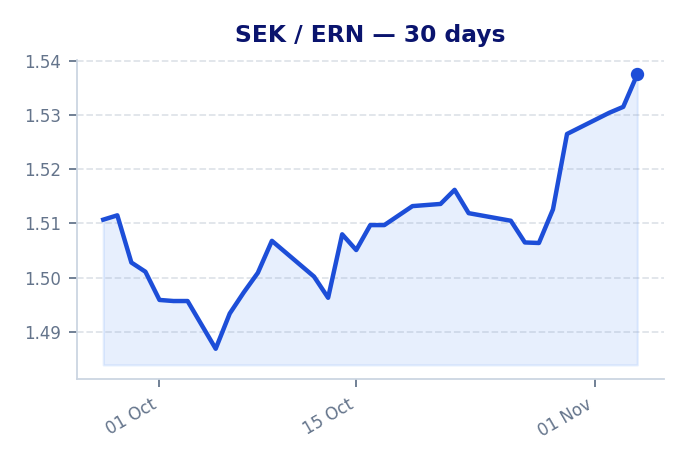
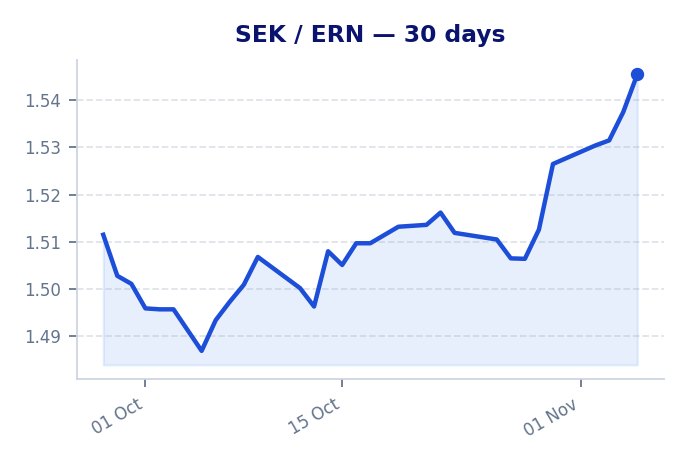
Add files via upload

diff --git a/index.html b/index.html
@@ -912,22 +912,22 @@ tr:hover {
 
             <div class="summary-item">
                 <div class="summary-label">SEK</div>
-                <div class="summary-value">1.5375</div>
+                <div class="summary-value">1.5455</div>
             </div>
 
             <div class="summary-item">
                 <div class="summary-label">NOK</div>
-                <div class="summary-value">1.6189</div>
+                <div class="summary-value">1.613</div>
             </div>
 
             <div class="summary-item">
                 <div class="summary-label">DKK</div>
-                <div class="summary-value">2.2545</div>
+                <div class="summary-value">2.2598</div>
             </div>
 
             </div>
             <div class="mid-market-meta">
-                <div><span style="font-weight:600" data-i18n="last-updated">Last Updated:</span> 2026-11-04 07:04</div>
+                <div><span style="font-weight:600" data-i18n="last-updated">Last Updated:</span> 2026-11-05 07:06</div>
                 <div style="font-size:0.8rem" data-i18n="mid-market-note">Official mid-market rates collected daily. Actual transfer payout rates shown below.</div>
             </div>
         </div>
@@ -947,11 +947,11 @@ tr:hover {
             <div class="insight-boxes">
                 <div class="bestbox">
                     <span class="icon">🏆</span> 
-                    <span data-i18n="top-pick">Top Pick: <b>Remitly</b> delivers <b>15 129 ERN</b></span>
+                    <span data-i18n="top-pick">Top Pick: <b>Ria</b> delivers <b>15 100 ERN</b></span>
                 </div>
                 <div class="gainbox">
                     <span class="icon">💡</span> 
-                    <span data-i18n="smart-move">Smart Move: You get <b>+421 ERN</b> more with <b>Remitly</b> vs <b>Juba Express</b></span>
+                    <span data-i18n="smart-move">Smart Move: You get <b>+319 ERN</b> more with <b>Ria</b> vs <b>Juba Express</b></span>
                 </div>
             </div>
             
@@ -972,25 +972,25 @@ tr:hover {
                         
 <tr class="best-row">
 <td class="left">
-    <div class="company-name">Remitly</div>
+    <div class="company-name">Ria</div>
 </td>
-<td class="right font-numeric">1.5130</td>
+<td class="right font-numeric">1.5100</td>
 <td class="right font-numeric">0,00</td>
-<td class="right nowrap font-numeric highlight-ern">15 129</td>
+<td class="right nowrap font-numeric highlight-ern">15 100</td>
 <td class="right nowrap font-numeric">-</td>
-<td class="right font-numeric markup-good">1.59%</td>
+<td class="right font-numeric markup-cell">2.30%</td>
 <td class="right font-numeric hide-mobile"><span class="badge best-badge">Best</span></td>
 </tr>
 
 <tr class="">
 <td class="left">
-    <div class="company-name">Ria</div>
+    <div class="company-name">Remitly</div>
 </td>
-<td class="right font-numeric">1.5000</td>
+<td class="right font-numeric">1.5039</td>
 <td class="right font-numeric">0,00</td>
-<td class="right nowrap font-numeric highlight-ern">15 000</td>
-<td class="right nowrap font-numeric"><span class="loss-text">-129 ERN</span></td>
-<td class="right font-numeric markup-cell">2.44%</td>
+<td class="right nowrap font-numeric highlight-ern">15 039</td>
+<td class="right nowrap font-numeric"><span class="loss-text">-61 ERN</span></td>
+<td class="right font-numeric markup-cell">2.69%</td>
 <td class="right font-numeric hide-mobile"><span class="badge rank-badge">#2</span></td>
 </tr>
 
@@ -998,11 +998,11 @@ tr:hover {
 <td class="left">
     <div class="company-name">Transfer Galaxy</div>
 </td>
-<td class="right font-numeric">1.4897</td>
+<td class="right font-numeric">1.5016</td>
 <td class="right font-numeric">0,00</td>
-<td class="right nowrap font-numeric highlight-ern">14 897</td>
-<td class="right nowrap font-numeric"><span class="loss-text">-232 ERN</span></td>
-<td class="right font-numeric markup-cell">3.11%</td>
+<td class="right nowrap font-numeric highlight-ern">15 016</td>
+<td class="right nowrap font-numeric"><span class="loss-text">-84 ERN</span></td>
+<td class="right font-numeric markup-cell">2.84%</td>
 <td class="right font-numeric hide-mobile"><span class="badge rank-badge">#3</span></td>
 </tr>
 
@@ -1010,11 +1010,11 @@ tr:hover {
 <td class="left">
     <div class="company-name">Western Union</div>
 </td>
-<td class="right font-numeric">1.4890</td>
+<td class="right font-numeric">1.4991</td>
 <td class="right font-numeric">0,00</td>
-<td class="right nowrap font-numeric highlight-ern">14 890</td>
-<td class="right nowrap font-numeric"><span class="loss-text">-239 ERN</span></td>
-<td class="right font-numeric markup-cell">3.15%</td>
+<td class="right nowrap font-numeric highlight-ern">14 991</td>
+<td class="right nowrap font-numeric"><span class="loss-text">-108 ERN</span></td>
+<td class="right font-numeric markup-cell">3.00%</td>
 <td class="right font-numeric hide-mobile"><span class="badge rank-badge">#4</span></td>
 </tr>
 
@@ -1022,11 +1022,11 @@ tr:hover {
 <td class="left">
     <div class="company-name">Dahabshiil</div>
 </td>
-<td class="right font-numeric">1.4815</td>
+<td class="right font-numeric">1.4887</td>
 <td class="right font-numeric">0,00</td>
-<td class="right nowrap font-numeric highlight-ern">14 815</td>
-<td class="right nowrap font-numeric"><span class="loss-text">-314 ERN</span></td>
-<td class="right font-numeric markup-cell">3.64%</td>
+<td class="right nowrap font-numeric highlight-ern">14 887</td>
+<td class="right nowrap font-numeric"><span class="loss-text">-213 ERN</span></td>
+<td class="right font-numeric markup-cell">3.68%</td>
 <td class="right font-numeric hide-mobile"><span class="badge rank-badge">#5</span></td>
 </tr>
 
@@ -1034,11 +1034,11 @@ tr:hover {
 <td class="left">
     <div class="company-name">Juba Express</div>
 </td>
-<td class="right font-numeric">1.4708</td>
+<td class="right font-numeric">1.4781</td>
 <td class="right font-numeric">0,00</td>
-<td class="right nowrap font-numeric highlight-ern">14 708</td>
-<td class="right nowrap font-numeric"><span class="loss-text">-421 ERN</span></td>
-<td class="right font-numeric markup-cell">4.34%</td>
+<td class="right nowrap font-numeric highlight-ern">14 781</td>
+<td class="right nowrap font-numeric"><span class="loss-text">-319 ERN</span></td>
+<td class="right font-numeric markup-cell">4.36%</td>
 <td class="right font-numeric hide-mobile"><span class="badge rank-badge">#6</span></td>
 </tr>
 
@@ -1060,11 +1060,11 @@ tr:hover {
             <div class="insight-boxes">
                 <div class="bestbox">
                     <span class="icon">🏆</span> 
-                    <span data-i18n="top-pick">Top Pick: <b>Transfer Galaxy</b> delivers <b>15 704 ERN</b></span>
+                    <span data-i18n="top-pick">Top Pick: <b>Ria Money Transfer</b> delivers <b>15 870 ERN</b></span>
                 </div>
                 <div class="gainbox">
                     <span class="icon">💡</span> 
-                    <span data-i18n="smart-move">Smart Move: You get <b>+862 ERN</b> more with <b>Transfer Galaxy</b> vs <b>Hidmona Money Transfer</b></span>
+                    <span data-i18n="smart-move">Smart Move: You get <b>+1 028 ERN</b> more with <b>Ria Money Transfer</b> vs <b>Hidmona Money Transfer</b></span>
                 </div>
             </div>
             
@@ -1085,25 +1085,25 @@ tr:hover {
                         
 <tr class="best-row">
 <td class="left">
-    <div class="company-name">Transfer Galaxy</div>
+    <div class="company-name">Ria Money Transfer</div>
 </td>
-<td class="right font-numeric">1.5704</td>
+<td class="right font-numeric">1.5870</td>
 <td class="right font-numeric">0,00</td>
-<td class="right nowrap font-numeric highlight-ern">15 704</td>
+<td class="right nowrap font-numeric highlight-ern">15 870</td>
 <td class="right nowrap font-numeric">-</td>
-<td class="right font-numeric markup-cell">3.00%</td>
+<td class="right font-numeric markup-good">1.61%</td>
 <td class="right font-numeric hide-mobile"><span class="badge best-badge">Best</span></td>
 </tr>
 
 <tr class="">
 <td class="left">
-    <div class="company-name">Ria Money Transfer</div>
+    <div class="company-name">Transfer Galaxy</div>
 </td>
-<td class="right font-numeric">1.5700</td>
+<td class="right font-numeric">1.5720</td>
 <td class="right font-numeric">0,00</td>
-<td class="right nowrap font-numeric highlight-ern">15 700</td>
-<td class="right nowrap font-numeric"><span class="loss-text">-4 ERN</span></td>
-<td class="right font-numeric markup-cell">3.02%</td>
+<td class="right nowrap font-numeric highlight-ern">15 720</td>
+<td class="right nowrap font-numeric"><span class="loss-text">-150 ERN</span></td>
+<td class="right font-numeric markup-cell">2.54%</td>
 <td class="right font-numeric hide-mobile"><span class="badge rank-badge">#2</span></td>
 </tr>
 
@@ -1111,11 +1111,11 @@ tr:hover {
 <td class="left">
     <div class="company-name">Remitly</div>
 </td>
-<td class="right font-numeric">1.5697</td>
+<td class="right font-numeric">1.5645</td>
 <td class="right font-numeric">0,00</td>
-<td class="right nowrap font-numeric highlight-ern">15 697</td>
-<td class="right nowrap font-numeric"><span class="loss-text">-6 ERN</span></td>
-<td class="right font-numeric markup-cell">3.04%</td>
+<td class="right nowrap font-numeric highlight-ern">15 645</td>
+<td class="right nowrap font-numeric"><span class="loss-text">-225 ERN</span></td>
+<td class="right font-numeric markup-cell">3.01%</td>
 <td class="right font-numeric hide-mobile"><span class="badge rank-badge">#3</span></td>
 </tr>
 
@@ -1123,11 +1123,11 @@ tr:hover {
 <td class="left">
     <div class="company-name">Juba Express</div>
 </td>
-<td class="right font-numeric">1.5485</td>
+<td class="right font-numeric">1.5425</td>
 <td class="right font-numeric">0,00</td>
-<td class="right nowrap font-numeric highlight-ern">15 485</td>
-<td class="right nowrap font-numeric"><span class="loss-text">-219 ERN</span></td>
-<td class="right font-numeric markup-cell">4.35%</td>
+<td class="right nowrap font-numeric highlight-ern">15 425</td>
+<td class="right nowrap font-numeric"><span class="loss-text">-445 ERN</span></td>
+<td class="right font-numeric markup-cell">4.37%</td>
 <td class="right font-numeric hide-mobile"><span class="badge rank-badge">#4</span></td>
 </tr>
 
@@ -1135,11 +1135,11 @@ tr:hover {
 <td class="left">
     <div class="company-name">Dahabshiil</div>
 </td>
-<td class="right font-numeric">1.5112</td>
+<td class="right font-numeric">1.5045</td>
 <td class="right font-numeric">0,00</td>
-<td class="right nowrap font-numeric highlight-ern">15 112</td>
-<td class="right nowrap font-numeric"><span class="loss-text">-591 ERN</span></td>
-<td class="right font-numeric markup-cell">6.65%</td>
+<td class="right nowrap font-numeric highlight-ern">15 045</td>
+<td class="right nowrap font-numeric"><span class="loss-text">-825 ERN</span></td>
+<td class="right font-numeric markup-cell">6.73%</td>
 <td class="right font-numeric hide-mobile"><span class="badge rank-badge">#5</span></td>
 </tr>
 
@@ -1150,8 +1150,8 @@ tr:hover {
 <td class="right font-numeric">1.4842</td>
 <td class="right font-numeric">0,00</td>
 <td class="right nowrap font-numeric highlight-ern">14 842</td>
-<td class="right nowrap font-numeric"><span class="loss-text">-862 ERN</span></td>
-<td class="right font-numeric markup-cell">8.32%</td>
+<td class="right nowrap font-numeric"><span class="loss-text">-1 028 ERN</span></td>
+<td class="right font-numeric markup-cell">7.99%</td>
 <td class="right font-numeric hide-mobile"><span class="badge rank-badge">#6</span></td>
 </tr>
 
@@ -1173,11 +1173,11 @@ tr:hover {
             <div class="insight-boxes">
                 <div class="bestbox">
                     <span class="icon">🏆</span> 
-                    <span data-i18n="top-pick">Top Pick: <b>Western Union</b> delivers <b>22 453 ERN</b></span>
+                    <span data-i18n="top-pick">Top Pick: <b>Western Union</b> delivers <b>22 533 ERN</b></span>
                 </div>
                 <div class="gainbox">
                     <span class="icon">💡</span> 
-                    <span data-i18n="smart-move">Smart Move: You get <b>+886 ERN</b> more with <b>Western Union</b> vs <b>Juba Express</b></span>
+                    <span data-i18n="smart-move">Smart Move: You get <b>+914 ERN</b> more with <b>Western Union</b> vs <b>Juba Express</b></span>
                 </div>
             </div>
             
@@ -1200,11 +1200,11 @@ tr:hover {
 <td class="left">
     <div class="company-name">Western Union</div>
 </td>
-<td class="right font-numeric">2.2453</td>
+<td class="right font-numeric">2.2533</td>
 <td class="right font-numeric">0,00</td>
-<td class="right nowrap font-numeric highlight-ern">22 453</td>
+<td class="right nowrap font-numeric highlight-ern">22 533</td>
 <td class="right nowrap font-numeric">-</td>
-<td class="right font-numeric markup-good">0.41%</td>
+<td class="right font-numeric markup-good">0.29%</td>
 <td class="right font-numeric hide-mobile"><span class="badge best-badge">Best</span></td>
 </tr>
 
@@ -1212,11 +1212,11 @@ tr:hover {
 <td class="left">
     <div class="company-name">Ria Money Transfer</div>
 </td>
-<td class="right font-numeric">2.2100</td>
+<td class="right font-numeric">2.2200</td>
 <td class="right font-numeric">0,00</td>
-<td class="right nowrap font-numeric highlight-ern">22 100</td>
-<td class="right nowrap font-numeric"><span class="loss-text">-353 ERN</span></td>
-<td class="right font-numeric markup-good">1.97%</td>
+<td class="right nowrap font-numeric highlight-ern">22 200</td>
+<td class="right nowrap font-numeric"><span class="loss-text">-332 ERN</span></td>
+<td class="right font-numeric markup-good">1.76%</td>
 <td class="right font-numeric hide-mobile"><span class="badge rank-badge">#2</span></td>
 </tr>
 
@@ -1224,10 +1224,10 @@ tr:hover {
 <td class="left">
     <div class="company-name">Remitly</div>
 </td>
-<td class="right font-numeric">2.2016</td>
+<td class="right font-numeric">2.2066</td>
 <td class="right font-numeric">0,00</td>
-<td class="right nowrap font-numeric highlight-ern">22 016</td>
-<td class="right nowrap font-numeric"><span class="loss-text">-437 ERN</span></td>
+<td class="right nowrap font-numeric highlight-ern">22 066</td>
+<td class="right nowrap font-numeric"><span class="loss-text">-467 ERN</span></td>
 <td class="right font-numeric markup-cell">2.35%</td>
 <td class="right font-numeric hide-mobile"><span class="badge rank-badge">#3</span></td>
 </tr>
@@ -1236,11 +1236,11 @@ tr:hover {
 <td class="left">
     <div class="company-name">Transfer Galaxy</div>
 </td>
-<td class="right font-numeric">2.1839</td>
+<td class="right font-numeric">2.1966</td>
 <td class="right font-numeric">0,00</td>
-<td class="right nowrap font-numeric highlight-ern">21 839</td>
-<td class="right nowrap font-numeric"><span class="loss-text">-614 ERN</span></td>
-<td class="right font-numeric markup-cell">3.13%</td>
+<td class="right nowrap font-numeric highlight-ern">21 966</td>
+<td class="right nowrap font-numeric"><span class="loss-text">-567 ERN</span></td>
+<td class="right font-numeric markup-cell">2.80%</td>
 <td class="right font-numeric hide-mobile"><span class="badge rank-badge">#4</span></td>
 </tr>
 
@@ -1251,8 +1251,8 @@ tr:hover {
 <td class="right font-numeric">2.1817</td>
 <td class="right font-numeric">0,00</td>
 <td class="right nowrap font-numeric highlight-ern">21 817</td>
-<td class="right nowrap font-numeric"><span class="loss-text">-635 ERN</span></td>
-<td class="right font-numeric markup-cell">3.23%</td>
+<td class="right nowrap font-numeric"><span class="loss-text">-715 ERN</span></td>
+<td class="right font-numeric markup-cell">3.46%</td>
 <td class="right font-numeric hide-mobile"><span class="badge rank-badge">#5</span></td>
 </tr>
 
@@ -1260,11 +1260,11 @@ tr:hover {
 <td class="left">
     <div class="company-name">Juba Express</div>
 </td>
-<td class="right font-numeric">2.1567</td>
+<td class="right font-numeric">2.1619</td>
 <td class="right font-numeric">0,00</td>
-<td class="right nowrap font-numeric highlight-ern">21 567</td>
-<td class="right nowrap font-numeric"><span class="loss-text">-886 ERN</span></td>
-<td class="right font-numeric markup-cell">4.34%</td>
+<td class="right nowrap font-numeric highlight-ern">21 619</td>
+<td class="right nowrap font-numeric"><span class="loss-text">-914 ERN</span></td>
+<td class="right font-numeric markup-cell">4.33%</td>
 <td class="right font-numeric hide-mobile"><span class="badge rank-badge">#6</span></td>
 </tr>
 
@@ -1282,7 +1282,7 @@ tr:hover {
             <div class="chart-card">
                 <div class="chart-header">
                     <img src="https://flagcdn.com/w40/se.png" class="flag-sm" alt="Sweden" width="24" height="16" loading="lazy" decoding="async"> <span>SEK / ERN</span>
-                    <span class="trend-badge up">▲ 1.8%</span>
+                    <span class="trend-badge up">▲ 2.2%</span>
                 </div>
                 <img src="sek_chart.png" class="chart-img" alt="SEK to ERN exchange-rate trend over the last 30 days" loading="lazy" decoding="async" width="688" height="464">
             </div>
@@ -1290,7 +1290,7 @@ tr:hover {
             <div class="chart-card">
                 <div class="chart-header">
                     <img src="https://flagcdn.com/w40/no.png" class="flag-sm" alt="Norway" width="24" height="16" loading="lazy" decoding="async"> <span>NOK / ERN</span>
-                    <span class="trend-badge up">▲ 2.8%</span>
+                    <span class="trend-badge up">▲ 2.3%</span>
                 </div>
                 <img src="nok_chart.png" class="chart-img" alt="NOK to ERN exchange-rate trend over the last 30 days" loading="lazy" decoding="async" width="688" height="464">
             </div>
@@ -1298,7 +1298,7 @@ tr:hover {
             <div class="chart-card">
                 <div class="chart-header">
                     <img src="https://flagcdn.com/w40/dk.png" class="flag-sm" alt="Denmark" width="24" height="16" loading="lazy" decoding="async"> <span>DKK / ERN</span>
-                    <span class="trend-badge down">▼ 1.2%</span>
+                    <span class="trend-badge down">▼ 1.1%</span>
                 </div>
                 <img src="dkk_chart.png" class="chart-img" alt="DKK to ERN exchange-rate trend over the last 30 days" loading="lazy" decoding="async" width="688" height="464">
             </div>
@@ -1361,7 +1361,7 @@ tr:hover {
         "calculator-note": "እቲ ዝበለጸ ክፍሊት ንዝኣተኻዮ መጠን ብተመሳሳሊ ሕሳብ ዋጋን ክፍሊትን ከም ሰንጠረዥ ይደጋገም።"
     };
 
-    const calculatorData = {"SEK": [{"provider": "Remitly", "rate": 1.513, "total_fee": 0.0}, {"provider": "Ria", "rate": 1.5, "total_fee": 0.0}, {"provider": "Transfer Galaxy", "rate": 1.4897, "total_fee": 0.0}, {"provider": "Western Union", "rate": 1.489, "total_fee": 0.0}, {"provider": "Dahabshiil", "rate": 1.4815, "total_fee": 0.0}, {"provider": "Juba Express", "rate": 1.4708, "total_fee": 0.0}], "NOK": [{"provider": "Transfer Galaxy", "rate": 1.5704, "total_fee": 0.0}, {"provider": "Ria Money Transfer", "rate": 1.57, "total_fee": 0.0}, {"provider": "Remitly", "rate": 1.5697, "total_fee": 0.0}, {"provider": "Juba Express", "rate": 1.5485, "total_fee": 0.0}, {"provider": "Dahabshiil", "rate": 1.5112, "total_fee": 0.0}, {"provider": "Hidmona Money Transfer", "rate": 1.4842, "total_fee": 0.0}], "DKK": [{"provider": "Western Union", "rate": 2.2453, "total_fee": 0.0}, {"provider": "Ria Money Transfer", "rate": 2.21, "total_fee": 0.0}, {"provider": "Remitly", "rate": 2.2016, "total_fee": 0.0}, {"provider": "Transfer Galaxy", "rate": 2.1839, "total_fee": 0.0}, {"provider": "Hidmona Money Transfer", "rate": 2.1817, "total_fee": 0.0}, {"provider": "Juba Express", "rate": 2.1567, "total_fee": 0.0}]};
+    const calculatorData = {"SEK": [{"provider": "Ria", "rate": 1.51, "total_fee": 0.0}, {"provider": "Remitly", "rate": 1.5039, "total_fee": 0.0}, {"provider": "Transfer Galaxy", "rate": 1.5016, "total_fee": 0.0}, {"provider": "Western Union", "rate": 1.4991, "total_fee": 0.0}, {"provider": "Dahabshiil", "rate": 1.4887, "total_fee": 0.0}, {"provider": "Juba Express", "rate": 1.4781, "total_fee": 0.0}], "NOK": [{"provider": "Ria Money Transfer", "rate": 1.587, "total_fee": 0.0}, {"provider": "Transfer Galaxy", "rate": 1.572, "total_fee": 0.0}, {"provider": "Remitly", "rate": 1.5645, "total_fee": 0.0}, {"provider": "Juba Express", "rate": 1.5425, "total_fee": 0.0}, {"provider": "Dahabshiil", "rate": 1.5045, "total_fee": 0.0}, {"provider": "Hidmona Money Transfer", "rate": 1.4842, "total_fee": 0.0}], "DKK": [{"provider": "Western Union", "rate": 2.2533, "total_fee": 0.0}, {"provider": "Ria Money Transfer", "rate": 2.22, "total_fee": 0.0}, {"provider": "Remitly", "rate": 2.2066, "total_fee": 0.0}, {"provider": "Transfer Galaxy", "rate": 2.1966, "total_fee": 0.0}, {"provider": "Hidmona Money Transfer", "rate": 2.1817, "total_fee": 0.0}, {"provider": "Juba Express", "rate": 2.1619, "total_fee": 0.0}]};
     const labels = [...document.querySelectorAll('[data-i18n]')];
     const english = new Map(labels.map(el => [el, el.innerHTML]));
 
